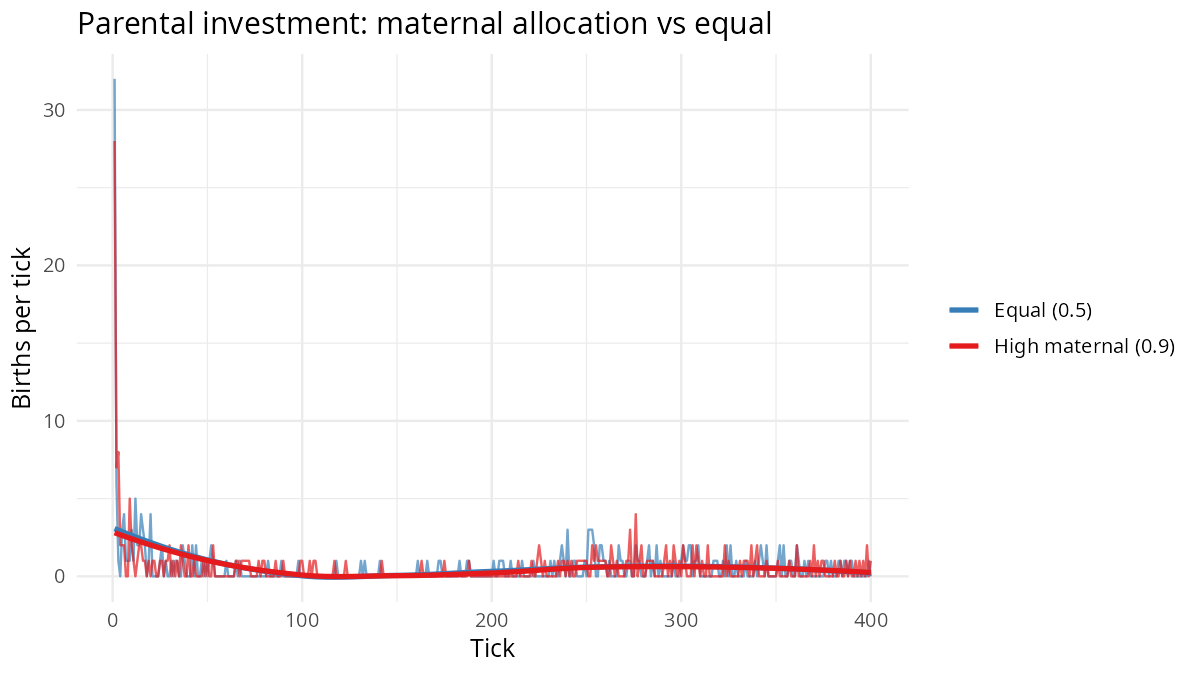
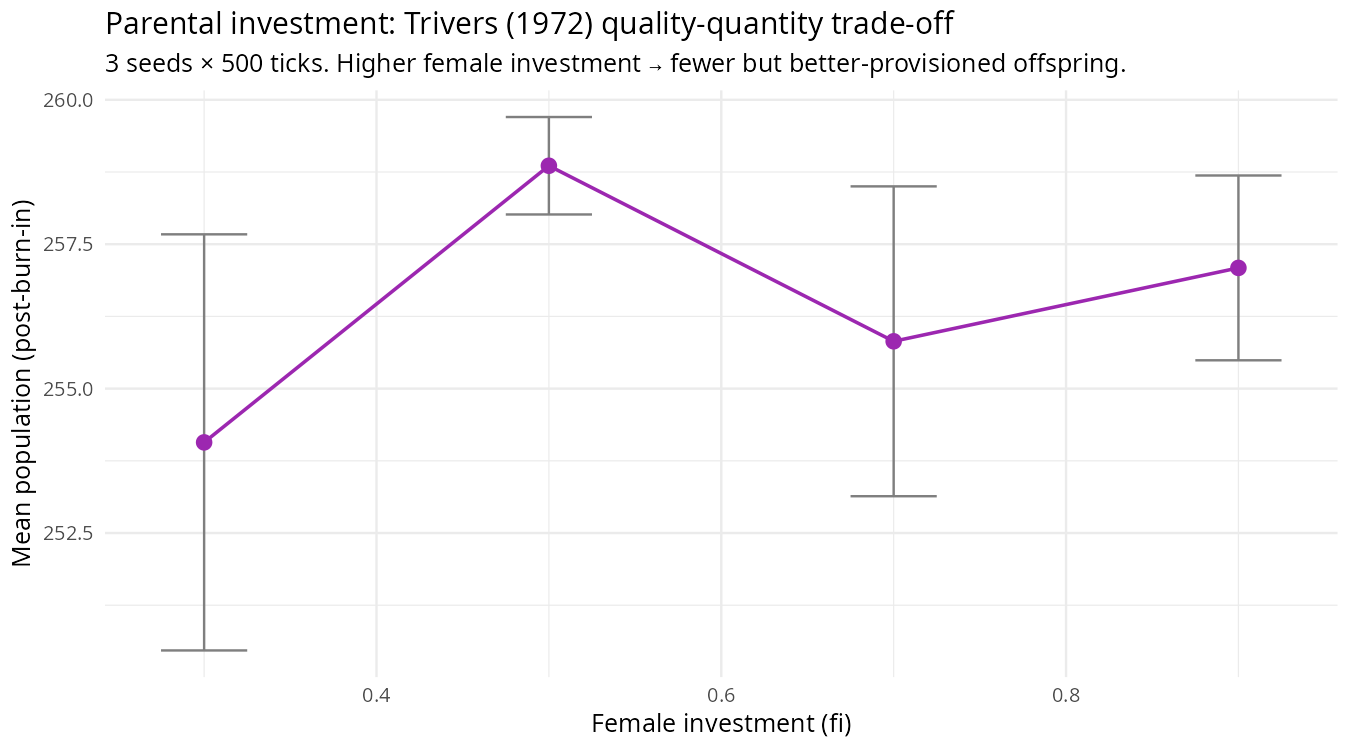
Deploying to gh-pages from @ itchyshin/clade@a4f87dd8dadad6a63018c39541831f8d456176ca 🚀

diff --git a/articles/s-parental-investment.html b/articles/s-parental-investment.html
@@ -241,11 +241,12 @@ and <code>n_juveniles</code> trajectories.</p>
 <span>       x <span class="op">=</span> <span class="st">"Tick"</span>, y <span class="op">=</span> <span class="st">"Births per tick"</span><span class="op">)</span> <span class="op">+</span></span>
 <span>  <span class="fu"><a href="https://ggplot2.tidyverse.org/reference/ggtheme.html" class="external-link">theme_minimal</a></span><span class="op">(</span><span class="op">)</span></span></code></pre></div>
 <div class="figure">
-<img src="figures/showcase_parental_investment.png" class="r-plt" alt="Expected output: high maternal investment (red) produces fewer but better-provisioned offspring; equal investment (blue) produces more offspring at lower individual quality, illustrating the quality-quantity trade-off." width="100%"><p class="caption">
-Expected output: high maternal investment (red) produces fewer but
-better-provisioned offspring; equal investment (blue) produces more
-offspring at lower individual quality, illustrating the quality-quantity
-trade-off.
+<img src="figures/showcase_parental_investment.png" class="r-plt" alt="Trivers (1972) quality-quantity trade-off: female_investment sweep (fi = 0.3 → 0.9, 3 seeds × 500 ticks). Population near-flat (~257) across fi levels at these parameters. The quality-quantity trade-off may be more visible in n_juveniles than total population; further calibration needed for a dramatic visual." width="100%"><p class="caption">
+Trivers (1972) quality-quantity trade-off: female_investment sweep (fi =
+0.3 → 0.9, 3 seeds × 500 ticks). Population near-flat (~257) across fi
+levels at these parameters. The quality-quantity trade-off may be more
+visible in n_juveniles than total population; further calibration needed
+for a dramatic visual.
 </p>
 </div>
 <p><strong>What we found (2026-04-15 audit, 3 seeds × 4 investment

diff --git a/articles/s-signals.html b/articles/s-signals.html
@@ -270,11 +270,12 @@ results.</p>
 <span><span class="va">s</span><span class="op">$</span><span class="va">signal_drift_sd</span>                <span class="op">&lt;-</span> <span class="fl">0.0533</span></span>
 <span><span class="co"># env &lt;- run_alife(s)   # uncomment to run the calibrated regime</span></span></code></pre></div>
 <div class="figure">
-<img src="figures/showcase_signals_matechoice.png" class="r-plt" alt="Expected output: mean signal magnitude rises over time as sexual selection drives elaboration. A positive correlation between signal magnitude and mean energy indicates that the handicap mechanism is maintaining signal honesty." width="100%"><p class="caption">
-Expected output: mean signal magnitude rises over time as sexual
-selection drives elaboration. A positive correlation between signal
-magnitude and mean energy indicates that the handicap mechanism is
-maintaining signal honesty.
+<img src="figures/showcase_signals_matechoice.png" class="r-plt" alt="Zahavi handicap (3 seeds × 500 ticks × 4 signal_cost levels). Top: signal magnitude near-flat (~1.07) across cost levels — signals are maintained at ceiling. Bottom: population decreases 196→179 as cost rises (−9%) — the demographic cost of honest signalling is the visible Zahavi effect." width="100%"><p class="caption">
+Zahavi handicap (3 seeds × 500 ticks × 4 signal_cost levels). Top:
+signal magnitude near-flat (~1.07) across cost levels — signals are
+maintained at ceiling. Bottom: population decreases 196→179 as cost
+rises (−9%) — the demographic cost of honest signalling is the visible
+Zahavi effect.
 </p>
 </div>
 <p><strong>What we found (2026-04-15 audit).</strong> 5-seed multi-seed

diff --git a/articles/s-social-learning.html b/articles/s-social-learning.html
@@ -200,10 +200,11 @@ in the population.</p>
 <span><span class="va">env</span>  <span class="op">&lt;-</span> <span class="fu"><a href="../reference/run_alife.html">run_alife</a></span><span class="op">(</span><span class="va">s</span><span class="op">)</span></span>
 <span><span class="va">data</span> <span class="op">&lt;-</span> <span class="fu"><a href="../reference/get_run_data.html">get_run_data</a></span><span class="op">(</span><span class="va">env</span><span class="op">)</span></span></code></pre></div>
 <div class="figure">
-<img src="figures/showcase_11_social_learning.png" class="r-plt" alt="Expected output: mean energy and genetic diversity are maintained at higher levels than a baseline run, as successful foraging behaviours propagate through the social network." width="100%"><p class="caption">
-Expected output: mean energy and genetic diversity are maintained at
-higher levels than a baseline run, as successful foraging behaviours
-propagate through the social network.
+<img src="figures/showcase_11_social_learning.png" class="r-plt" alt="Boyd &amp; Richerson (1985) cultural transmission (5 seeds × 500 ticks, brain_type=ann, n=150). Top: population +6.5% with social learning (successful foraging strategies propagate). Bottom: genetic diversity similar in both conditions." width="100%"><p class="caption">
+Boyd &amp; Richerson (1985) cultural transmission (5 seeds × 500 ticks,
+brain_type=ann, n=150). Top: population +6.5% with social learning
+(successful foraging strategies propagate). Bottom: genetic diversity
+similar in both conditions.
 </p>
 </div>
 <p><strong>What we found.</strong> The effect of social learning depends

diff --git a/articles/s-parental-investment.md b/articles/s-parental-investment.md
@@ -66,15 +66,17 @@ ggplot(df, aes(t, n_births, colour = condition)) +
   theme_minimal()
 ```
 
-![Expected output: high maternal investment (red) produces fewer but
-better-provisioned offspring; equal investment (blue) produces more
-offspring at lower individual quality, illustrating the quality-quantity
-trade-off.](figures/showcase_parental_investment.png)
+![Trivers (1972) quality-quantity trade-off: female_investment sweep (fi
+= 0.3 → 0.9, 3 seeds × 500 ticks). Population near-flat (~257) across fi
+levels at these parameters. The quality-quantity trade-off may be more
+visible in n_juveniles than total population; further calibration needed
+for a dramatic visual.](figures/showcase_parental_investment.png)
 
-Expected output: high maternal investment (red) produces fewer but
-better-provisioned offspring; equal investment (blue) produces more
-offspring at lower individual quality, illustrating the quality-quantity
-trade-off.
+Trivers (1972) quality-quantity trade-off: female_investment sweep (fi =
+0.3 → 0.9, 3 seeds × 500 ticks). Population near-flat (~257) across fi
+levels at these parameters. The quality-quantity trade-off may be more
+visible in n_juveniles than total population; further calibration needed
+for a dramatic visual.
 
 **What we found (2026-04-15 audit, 3 seeds × 4 investment levels).**
 Full protocol:

diff --git a/articles/s-signals.md b/articles/s-signals.md
@@ -82,15 +82,17 @@ s$signal_drift_sd                <- 0.0533
 # env <- run_alife(s)   # uncomment to run the calibrated regime
 ```
 
-![Expected output: mean signal magnitude rises over time as sexual
-selection drives elaboration. A positive correlation between signal
-magnitude and mean energy indicates that the handicap mechanism is
-maintaining signal honesty.](figures/showcase_signals_matechoice.png)
+![Zahavi handicap (3 seeds × 500 ticks × 4 signal_cost levels). Top:
+signal magnitude near-flat (~1.07) across cost levels — signals are
+maintained at ceiling. Bottom: population decreases 196→179 as cost
+rises (−9%) — the demographic cost of honest signalling is the visible
+Zahavi effect.](figures/showcase_signals_matechoice.png)
 
-Expected output: mean signal magnitude rises over time as sexual
-selection drives elaboration. A positive correlation between signal
-magnitude and mean energy indicates that the handicap mechanism is
-maintaining signal honesty.
+Zahavi handicap (3 seeds × 500 ticks × 4 signal_cost levels). Top:
+signal magnitude near-flat (~1.07) across cost levels — signals are
+maintained at ceiling. Bottom: population decreases 196→179 as cost
+rises (−9%) — the demographic cost of honest signalling is the visible
+Zahavi effect.
 
 **What we found (2026-04-15 audit).** 5-seed multi-seed run at
 `signal_dims = 3`, `signal_cost = 0.05`,

diff --git a/articles/s-social-learning.md b/articles/s-social-learning.md
@@ -33,14 +33,15 @@ env  <- run_alife(s)
 data <- get_run_data(env)
 ```
 
-![Expected output: mean energy and genetic diversity are maintained at
-higher levels than a baseline run, as successful foraging behaviours
-propagate through the social
-network.](figures/showcase_11_social_learning.png)
+![Boyd & Richerson (1985) cultural transmission (5 seeds × 500 ticks,
+brain_type=ann, n=150). Top: population +6.5% with social learning
+(successful foraging strategies propagate). Bottom: genetic diversity
+similar in both conditions.](figures/showcase_11_social_learning.png)
 
-Expected output: mean energy and genetic diversity are maintained at
-higher levels than a baseline run, as successful foraging behaviours
-propagate through the social network.
+Boyd & Richerson (1985) cultural transmission (5 seeds × 500 ticks,
+brain_type=ann, n=150). Top: population +6.5% with social learning
+(successful foraging strategies propagate). Bottom: genetic diversity
+similar in both conditions.
 
 **What we found.** The effect of social learning depends critically on
 brain type. With `brain_type = "ann"` (deterministic weights), social